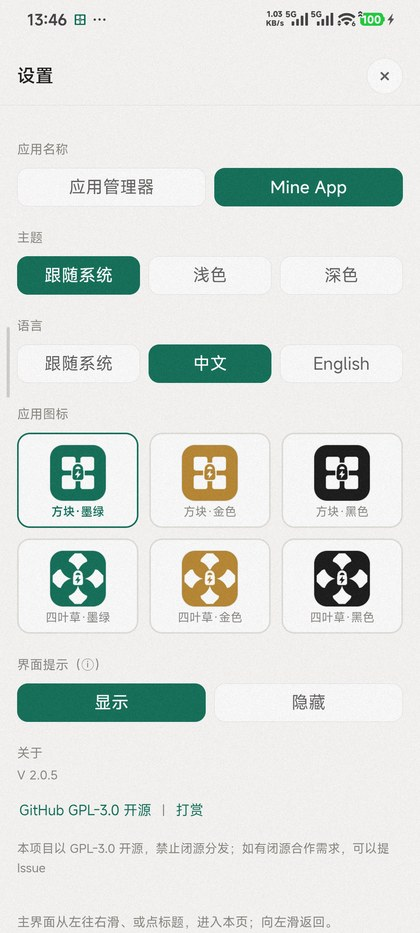
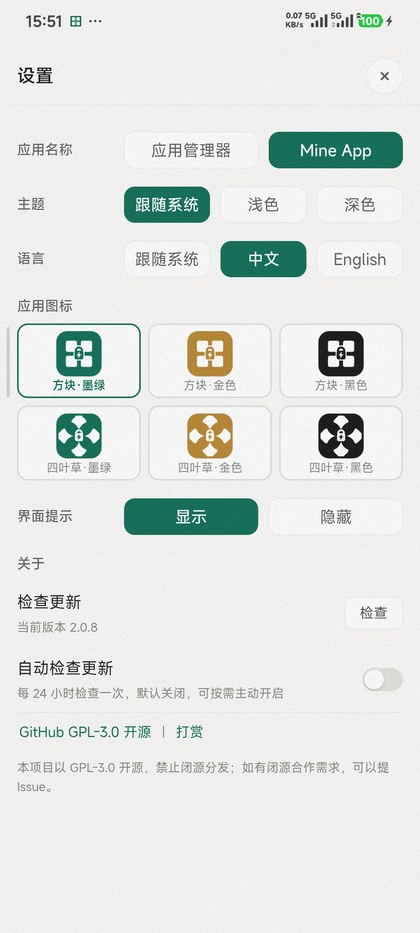
2.0.8：设置页重排 + 检查更新 + 性能调优说明
设置页
- 标签与按钮同行（原来「标题一行 + 按钮一行」占两行），整页现在一屏装得下
- 标签字号 12→13px、颜色加深、字重 500，更醒目
- 按钮等宽、间距 10px，标签与按钮间距 36px
- 删掉底部「左滑进入本页」「应用名称会改变桌面图标」两句 —— 都是显然的事
- 关于区新增「检查更新」+「自动检查更新」开关（默认关闭）

检查更新
- Bridge.update()：GET GitHub Releases API，只读 tag_name / html_url
- 默认不联网，只有点「检查」或开了自动检查且距上次超 24h 才发请求
- 版本比较按 x.y.z 逐段数字比，2.0.10 > 2.0.9

性能调优页
- 性能模式下方新增说明：它只解除主频上限，不会让 CPU 一直满血跑
- GPU 调优 / 游戏周期优化改为「系统默认已开启，不建议手动修改」
  （原来显示的是 GPUTUNER_SWITCH 这类原始属性名）
- 说明与省电模式之间加分隔线

README
- 新增性能调优页截图（中英），四张主界面/设置页截图重拍

diff --git a/docs/RELEASE-2.0.8.md b/docs/RELEASE-2.0.8.md
@@ -1,0 +1,53 @@
+# Mine App 2.0.8
+
+> 性能调优页补了说明和截图；设置页加了「检查更新」。
+
+---
+
+## 性能模式：它其实不费电
+
+「性能模式」这名字像个费电开关，很多人因此不敢开，宁可留在「均衡」档，结果又卡、续航也没好。
+
+实际情况是反过来的：
+
+- 它只是**解除 CPU 的峰值主频上限**，不会让 CPU 一直满血跑
+- CPU 按需调度：前台任务几秒干完就回落到低频，比被压着慢慢磨更省
+- 真正吃掉待机电量的，是**后台应用偷偷唤醒、联网、刷新**，不是峰值主频
+- 而「均衡」压主频但压不住后台 —— 前台跑得更久、后台照样醒，所以**又卡又费电**
+
+推荐组合：**性能模式 + 限制用不着的应用**。前台快、后台静，两头都省。
+
+这段说明放在「性能调优」页里，紧跟性能模式开关下方。
+
+## 两个不建议手动改的开关
+
+「GPU 调优」和「游戏周期优化」系统默认就是开着的，改错了反而掉性能。现在两行都标注了：
+
+> 系统默认已开启，不建议手动修改
+
+（之前这两行显示的是系统属性名 `GPUTUNER_SWITCH`、`cloud_periodic_game_enable`，对普通用户毫无意义。）
+
+## 设置页新增「检查更新」
+
+- **手动检查**：点一下就查 GitHub 上的最新 Release，有新版本会给出下载入口
+- **自动检查**：开关默认关闭，开启后每 24 小时最多查一次
+
+关于隐私，说明白：
+
+- **默认不联网**。不开自动检查的话，只有你点「检查」时才会发出一次请求
+- 请求只访问 GitHub 公开的 Releases API，不带任何设备信息、不做统计
+
+> ⚠ 这个功能依赖仓库是公开的 —— 私有仓库下匿名访问 GitHub API 会返回 404。
+
+---
+
+## What's new (English)
+
+- **Performance tuning sheet** now explains why "Performance" mode does not drain the battery:
+  it only lifts the CPU's peak-frequency cap rather than pinning the CPU at full tilt. The real
+  standby drain is background activity — which is what *Restrict* is for.
+- **GPU tuning / Game periodic tuning** are now labelled *"On by default — best left untouched"*
+  instead of showing raw system property names.
+- **Settings → Check for updates**: a manual check plus an opt-in 24-hour auto-check (off by
+  default). Nothing is sent unless you ask for it, and the request only hits GitHub's public
+  Releases API.

diff --git a/README.en.md b/README.en.md
@@ -11,7 +11,7 @@
 <h1 align="center">Mine App · App Manager</h1>
 
 <p align="center">
-  <img alt="version" src="https://img.shields.io/badge/version-2.0.7-0F6E56">
+  <img alt="version" src="https://img.shields.io/badge/version-2.0.8-0F6E56">
   <img alt="APK" src="https://img.shields.io/badge/APK-525%20KB-0F6E56">
   <img alt="minSdk" src="https://img.shields.io/badge/minSdk-26-0F6E56">
   <img alt="targetSdk" src="https://img.shields.io/badge/targetSdk-35-0F6E56">
@@ -138,6 +138,10 @@ that single `adb tcpip` keeps working; after a reboot, just run it once more.
 > | **Restrict** the apps you don't need | Puts the background to sleep and removes the wakeups |
 >
 > Fast foreground, quiet background — you save on both ends.
+
+<p align="center">
+  <img src="docs/tune-en.jpg" width="320" alt="Performance tuning">
+</p>
 
 <p align="center">
   <img src="docs/settings-en.jpg" width="320" alt="Settings">
